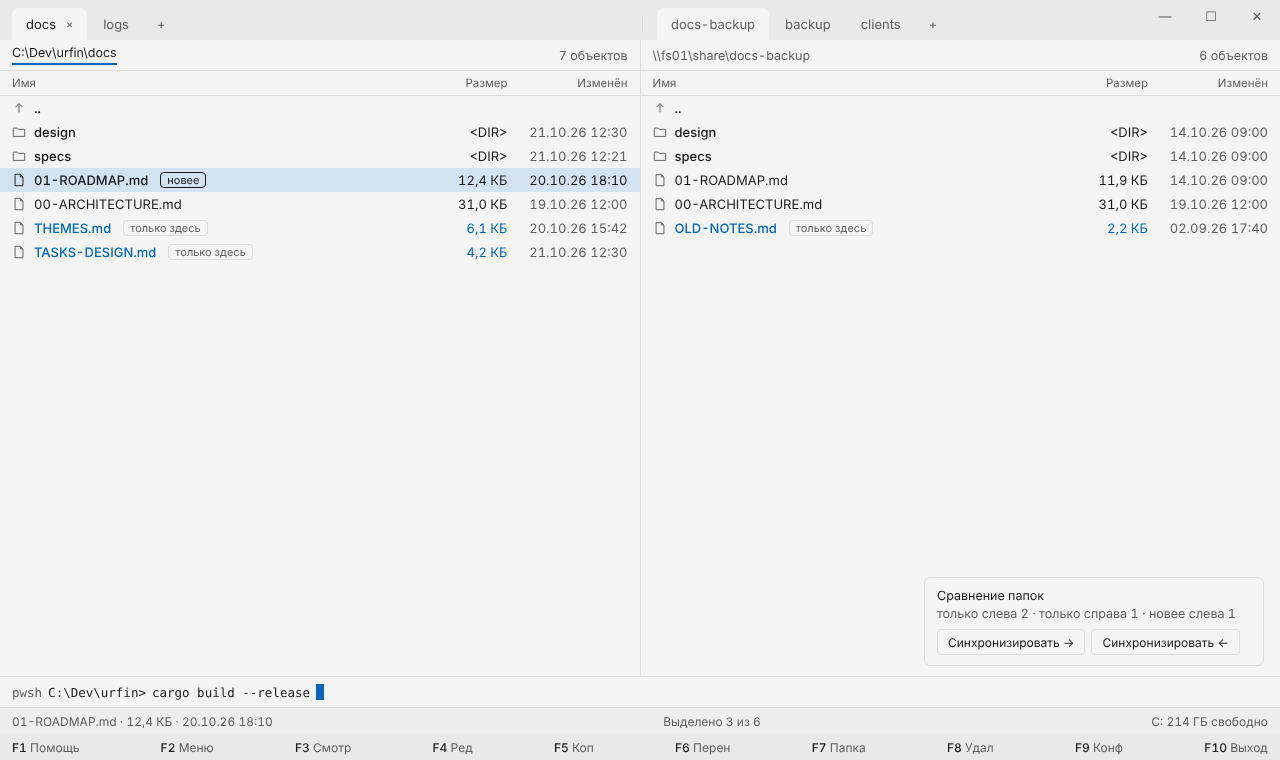
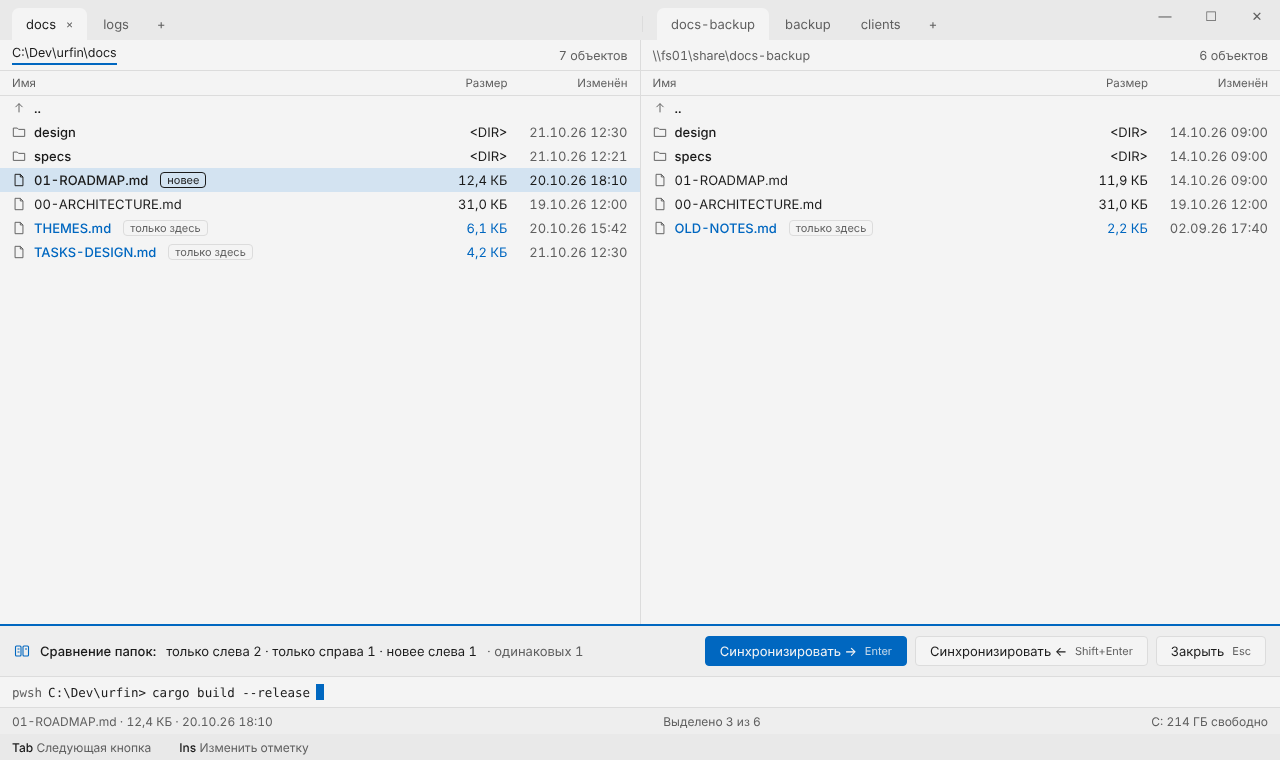
docs(design): итог сравнения — встроенная строка, тосты без кнопок
Claude-Session: https://claude.ai/code/session_013ZpcYnbJMYkHW4aMDDmFTq

diff --git a/docs/design/window.dc.html b/docs/design/window.dc.html
@@ -432,6 +432,19 @@ body{margin:0}
 </div>
 </div>
 </sc-if>
+<sc-if value="{{isCmp}}" hint-placeholder-val="{{ false }}">
+<div style="position: absolute; left: 0; right: 0; bottom: 0; padding: 10px 14px; display: flex; align-items: center; gap: 10px; background: {{t.h}}; border-top: 2px solid {{t.a}}">
+<span style="display: inline-flex; color: {{t.a}}"><svg width="16" height="16" viewBox="0 0 16 16" aria-hidden="true"><rect x="1.5" y="3" width="5.5" height="10" rx="1" fill="none" stroke="currentColor" stroke-width="1.1"></rect><rect x="9" y="3" width="5.5" height="10" rx="1" fill="none" stroke="currentColor" stroke-width="1.1"></rect><path d="M3.5 6h2 M11 6h2 M3.5 9h2" stroke="currentColor" stroke-width="1.1"></path></svg></span>
+<span style="font-weight: 500; white-space: nowrap">Сравнение папок:</span>
+<span style="white-space: nowrap">только слева 2 · только справа 1 · новее слева 1</span>
+<span style="color: {{t.s}}; white-space: nowrap">· одинаковых 1</span>
+<div style="margin-left: auto; display: flex; gap: 8px">
+<button type="button" style="{{btnPrimary}}">Синхронизировать → <span style="opacity: 0.8; font-size: 11px">Enter</span></button>
+<button type="button" style="{{btn}}">Синхронизировать ← <span style="color: {{t.s}}; font-size: 11px">Shift+Enter</span></button>
+<button type="button" style="{{btn}}">Закрыть <span style="color: {{t.s}}; font-size: 11px">Esc</span></button>
+</div>
+</div>
+</sc-if>
 <sc-if value="{{isQuick}}" hint-placeholder-val="{{ false }}">
 <div style="position: absolute; left: 0; right: calc(50% + 0.5px); bottom: 0; height: 34px; display: flex; align-items: center; gap: 8px; padding: 0 12px; background: {{t.h}}; border-top: 2px solid {{t.a}}">
 <span style="display: inline-flex; color: {{t.s}}"><svg width="14" height="14" viewBox="0 0 16 16" aria-hidden="true"><circle cx="6.5" cy="6.5" r="4.5" fill="none" stroke="currentColor" stroke-width="1.2"></circle><path d="M10 10l4 4" stroke="currentColor" stroke-width="1.2"></path></svg></span>
@@ -753,6 +766,7 @@ menu: [["← →","Меню"],["↑ ↓","Пункт"],["Enter","Выбрать"
 terminal: [["Ctrl+O","Панели"],["Ctrl+F1","Левая"],["Ctrl+F2","Правая"],["Ctrl+Shift+F","Поиск в выводе"],["Ctrl+Break","Прервать"]],
 context: [["↑ ↓","Пункт"],["→","Подменю"],["Enter","Выбрать"],["Esc","Закрыть"]],
 select: [["Tab","Следующее поле"],["Alt+↓","История масок"]],
+compare: [["Tab","Следующая кнопка"],["Ins","Изменить отметку"]],
 multirename: [["Tab","Шаблон ↔ список"],["F1","Справка по шаблону"]],
 drives: [["Enter","Открыть"],["Del","Извлечь или отключить"],["Alt+Enter","Свойства тома"],["Esc","Закрыть"]],
 quick: [["Ctrl+Enter","Следующее"],["Ctrl+Shift+Enter","Предыдущее"],["Enter","Открыть"],["Esc","Закрыть"]],
@@ -838,7 +852,7 @@ showJobs: screen === "progress" || screen === "conflict",
 jobs: (screen === "conflict" ? [["Копирование","3 объекта → \\\\fs01\\share\\presale",35,"ждёт ответа: конфликт 4 из 12",t.rem,"Пауза"]] : [["Копирование","48 файлов → \\\\fs01\\share\\presale",35,"1,2 из 3,4 ГБ · 48 МБ/с · ещё 47 с",t.a,"Пауза"],["Удаление","target\\debug → Корзина",70,"9 012 из 12 870 · ещё 4 с",t.a,"Пауза"]]).map(([name, what, pct, info, col, act]) => ({ name, what, info, act, infoColor: col === t.a ? t.s : col, bar: "height: 100%; width: " + pct + "%; background: " + col })),
 isCopy, isSearch: screen === "search", isViewer: screen === "viewer", isEditor: screen === "editor", isSettings: screen === "settings",
 showCli: ["panels","journal","multirename","compare","terminal","termhalf","menu","context","select","quick","archive","errors","brief","tree","info","quickview","drives","copy","delete","conflict","progress","search"].indexOf(screen) >= 0,
-showToast: screen === "panels" || screen === "compare",
+showToast: screen === "panels", isCmp: screen === "compare",
 toastPos: "bottom: " + (82 + 12 + (screen === "progress" ? 64 : (screen === "conflict" ? 34 : 0))) + "px;",
 toast: screen === "compare" ? { title: "Сравнение папок", text: "только слева 2 · только справа 1 · новее слева 1", act: true, acts: ["Синхронизировать →", "Синхронизировать ←"] } : { title: "Копирование завершено", text: "48 файлов · 1,9 ГБ · 6,2 с", act: false, acts: [] },
 showBanner: screen === "journal", isRename: screen === "multirename",

diff --git a/docs/design/DESIGN.md b/docs/design/DESIGN.md
@@ -7,7 +7,7 @@
 Снимки — образец раскладки, пропорций и цвета, не попиксельный эталон: шрифт на снимках — заменитель Segoe UI (рендер не на Windows).
 
 ## Общие правила
-- **Верх — навигация, низ — события** (№63). Сверху только табы и пути. Всё событийное — внизу, снизу вверх: keybar → статус → командная строка → job-бар → строка-вопрос/баннер; тосты — справа снизу над этой зоной (отступ 12 от её верхнего края, стопка ≤3 вверх).
+- **Верх — навигация, низ — события** (№63). Тост — только пассивное сообщение без кнопок; всё, где есть действия, — встроенная строка (как F5): на ширину активной панели, если касается её, или на всю ширину, если обеих. Сверху только табы и пути. Всё событийное — внизу, снизу вверх: keybar → статус → командная строка → job-бар → строка-вопрос/баннер; тосты — справа снизу над этой зоной (отступ 12 от её верхнего края, стопка ≤3 вверх).
 - Без модальных окон: всё, что спрашивает, — **встроенная строка внизу**, она **накрывает** нижнюю часть панелей (список не перестраивается; если курсор оказался под строкой — список прокручивается так, чтобы курсор был виден). Исключение — job-бар: живёт долго, поэтому **занимает место** над командной строкой и сдвигает панели.
 - **Одна информация — одно место** (№61): имя файла — во вкладке; путь — в заголовке экрана/панели; размер, кодировка, переводы строк, тип — в статус-строке; переключатели режимов — в заголовке экрана; клавиши встроенной строки — подписями на её кнопках и **не** повторяются в keybar (keybar в это время показывает только дополнительные клавиши: Tab, F3 и т. п.).
 - **Всплывающий список и его кнопка — одна фигура** («мешочек»): меню F9, выпадающие поля, кнопки со списком. Открытая кнопка становится корешком цвета `panel` без нижней границы и перетекает в список; корешок — в любом месте верхнего края списка, как удобнее для компоновки (подробно — `screen-menu.png`). Контекстное меню без кнопки-якоря — обычная плашка.
@@ -51,7 +51,7 @@
 | `screen-select.png` | Num + / Num −: строка внизу активной панели в две строки — «Отметить» + маска (несколько через `;`) + «совпадает N»; «Регистр», «И папки», Отметить (Enter) / Отмена (Esc). Пока строка открыта, совпавшие имена подсвечены `highlight` (предпросмотр отметки) | G-05 |
 | `screen-journal.png` | Баннер журнала операций (S5-12) — строка 40 в зоне событий над job-баром, черта сверху `context_remote`, **сдвигает** панели (живёт до ответа); баннеров несколько — показывается один и «ещё N»: значок часов `context_remote`, «Прервано при выходе:» + что и куда + «выполнено ≈ N %», кнопки «Продолжить» (основная) / «Очистить» | D-04 / S5-12 |
 | `screen-multirename.png` | Групповое переименование (S5-23): строка внизу активной панели — «Новые имена» + шаблон моно + «изменится N · проблем M»; ряд вставок `[N]` `[E]` `[C]` `[Y][M][D]`, «найти/замена через /»; превью прямо в списке: «старое → новое» `accent`, проблема (повтор, ошибка) — `modified` | D-04 / S5-23 |
-| `screen-compare.png` | Сравнение папок (S5-24): отличия отмечены в обеих панелях, у строки — метка причины («новее», «только здесь») в рамке `border`; итог — тост с действиями «Синхронизировать →» / «←» (15 с, №51) | D-03 / S5-24 |
+| `screen-compare.png` | Сравнение папок (S5-24): отличия отмечены в обеих панелях, у строки — метка причины («новее», «только здесь») в рамке `border`; итог — **встроенная строка на всю ширину** (черта `accent`): «Сравнение папок: только слева N · только справа N · новее … · одинаковых N», Синхронизировать → (Enter) / ← (Shift+Enter) / Закрыть (Esc) | D-04 / S5-24 |
 | `screen-copy.png` | F5: строка копирования — заголовок «Копировать N · размер в», поле пути, «Если файл есть» (Спросить/Заменить/Пропустить/Заменить, если новее), «Сохранять даты», «Проверить хэш»; кнопки Копировать (Enter, основная) / В фоне (Shift+Enter) / Отмена (Esc); черта сверху 2 px `accent` | G-05 (PromptDetail) |
 | `screen-delete.png` | F8: строка в ширину активной панели, черта `modified`, иконка корзины; Удалить (Enter, кнопка `modified`) / Безвозвратно (Shift+Enter) / Отмена | G-05 |
 | `screen-conflict.png` | Конфликт: сравнение «Копируемый / Существующий» (размер, дата, метка «новее» `accent`), Заменить / Пропустить (S) / Заменить, если новее (N) / Переименовать (R), «Так же для остальных N», Отмена; черта `context_remote`; задача в job-баре «ждёт ответа» янтарём | G-05 (S2-15 conflict view) |
